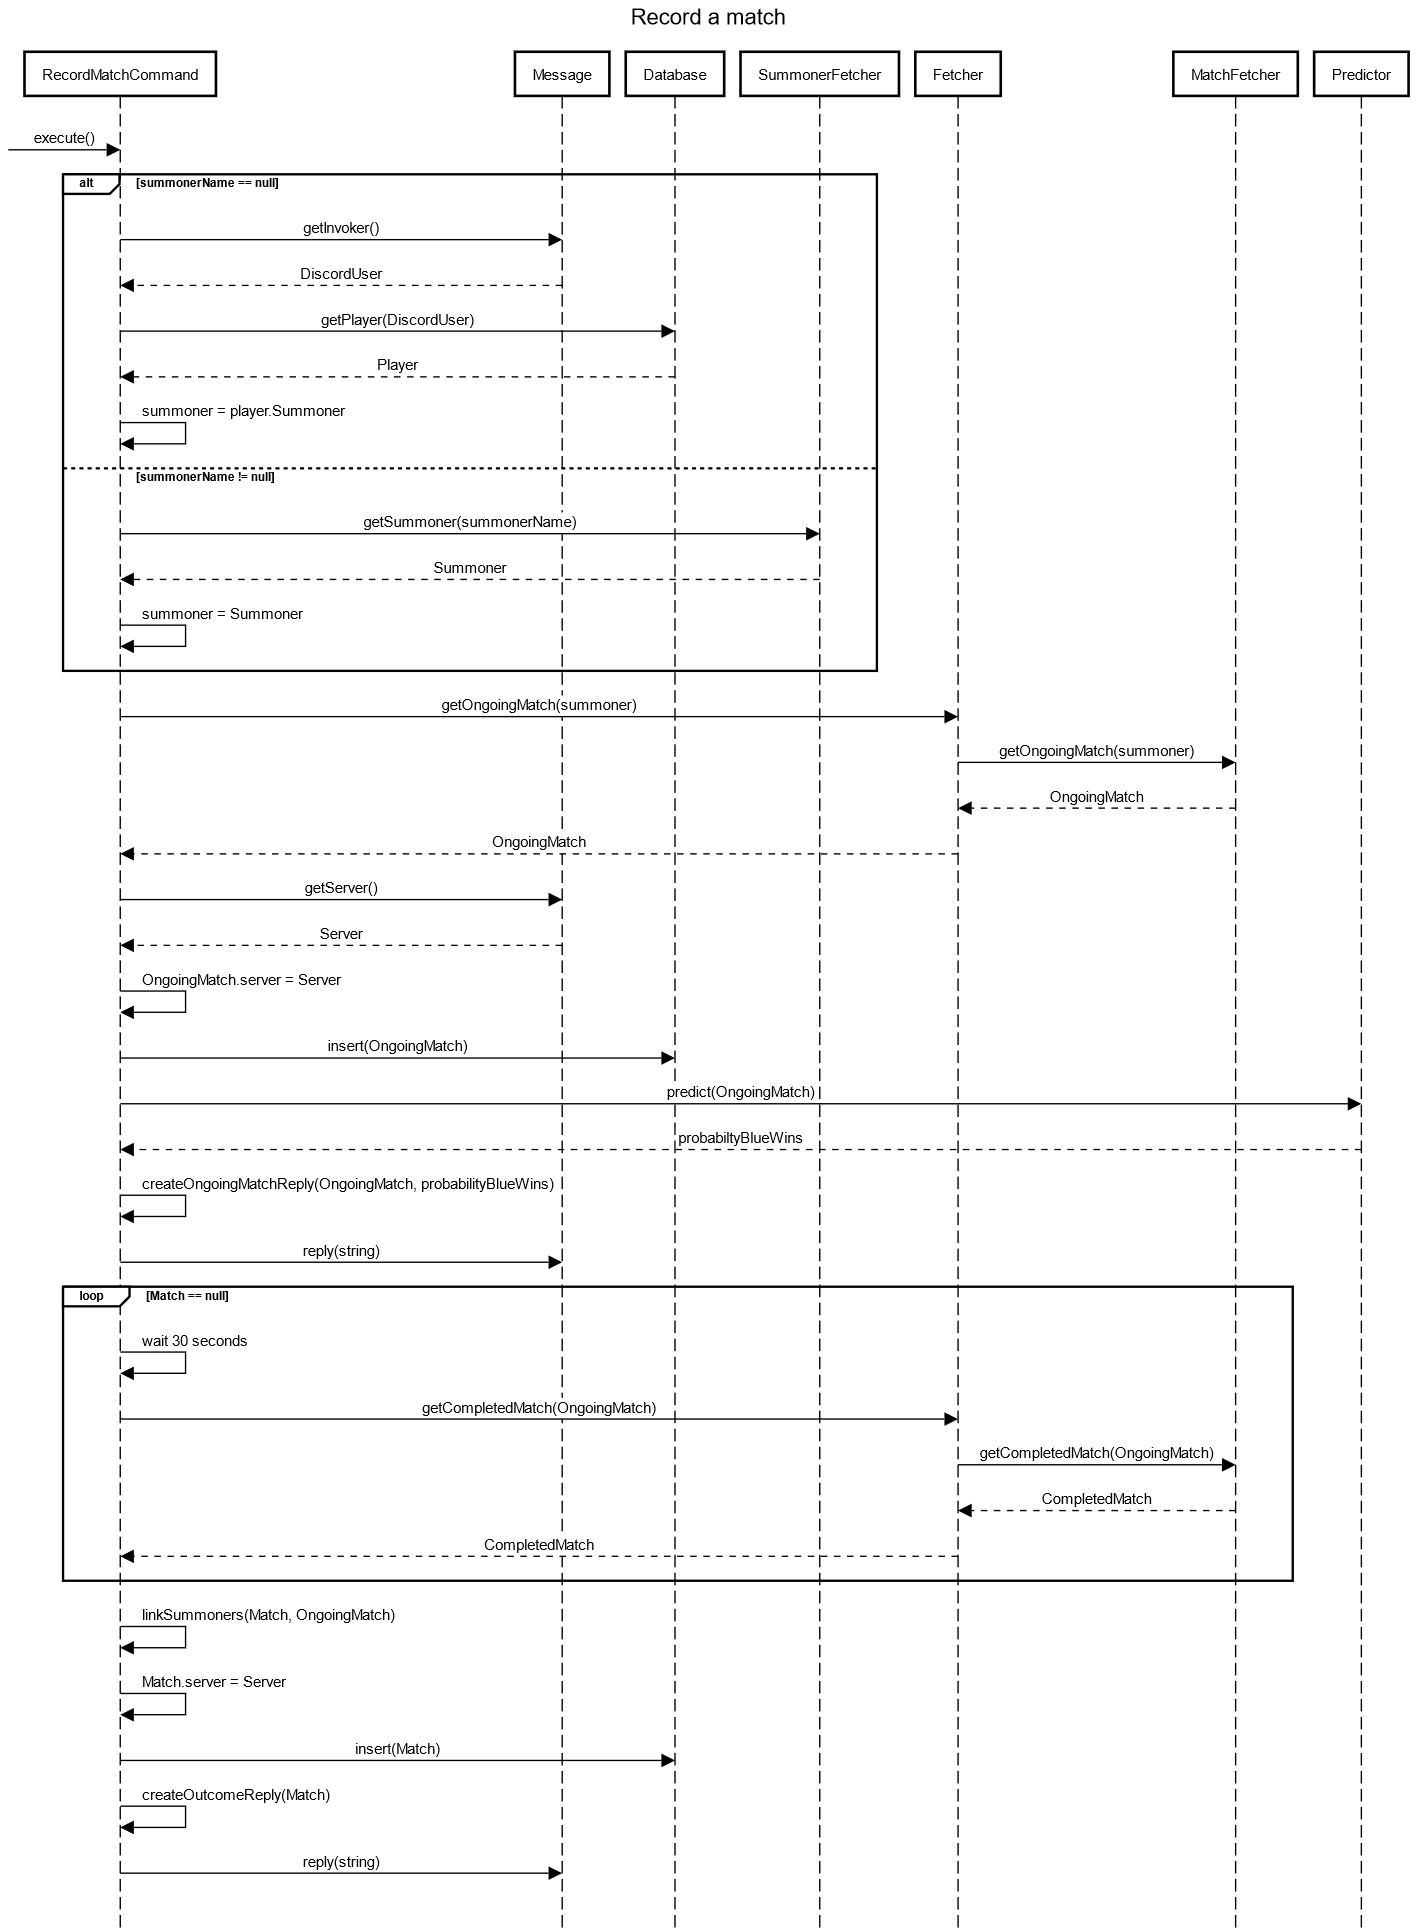
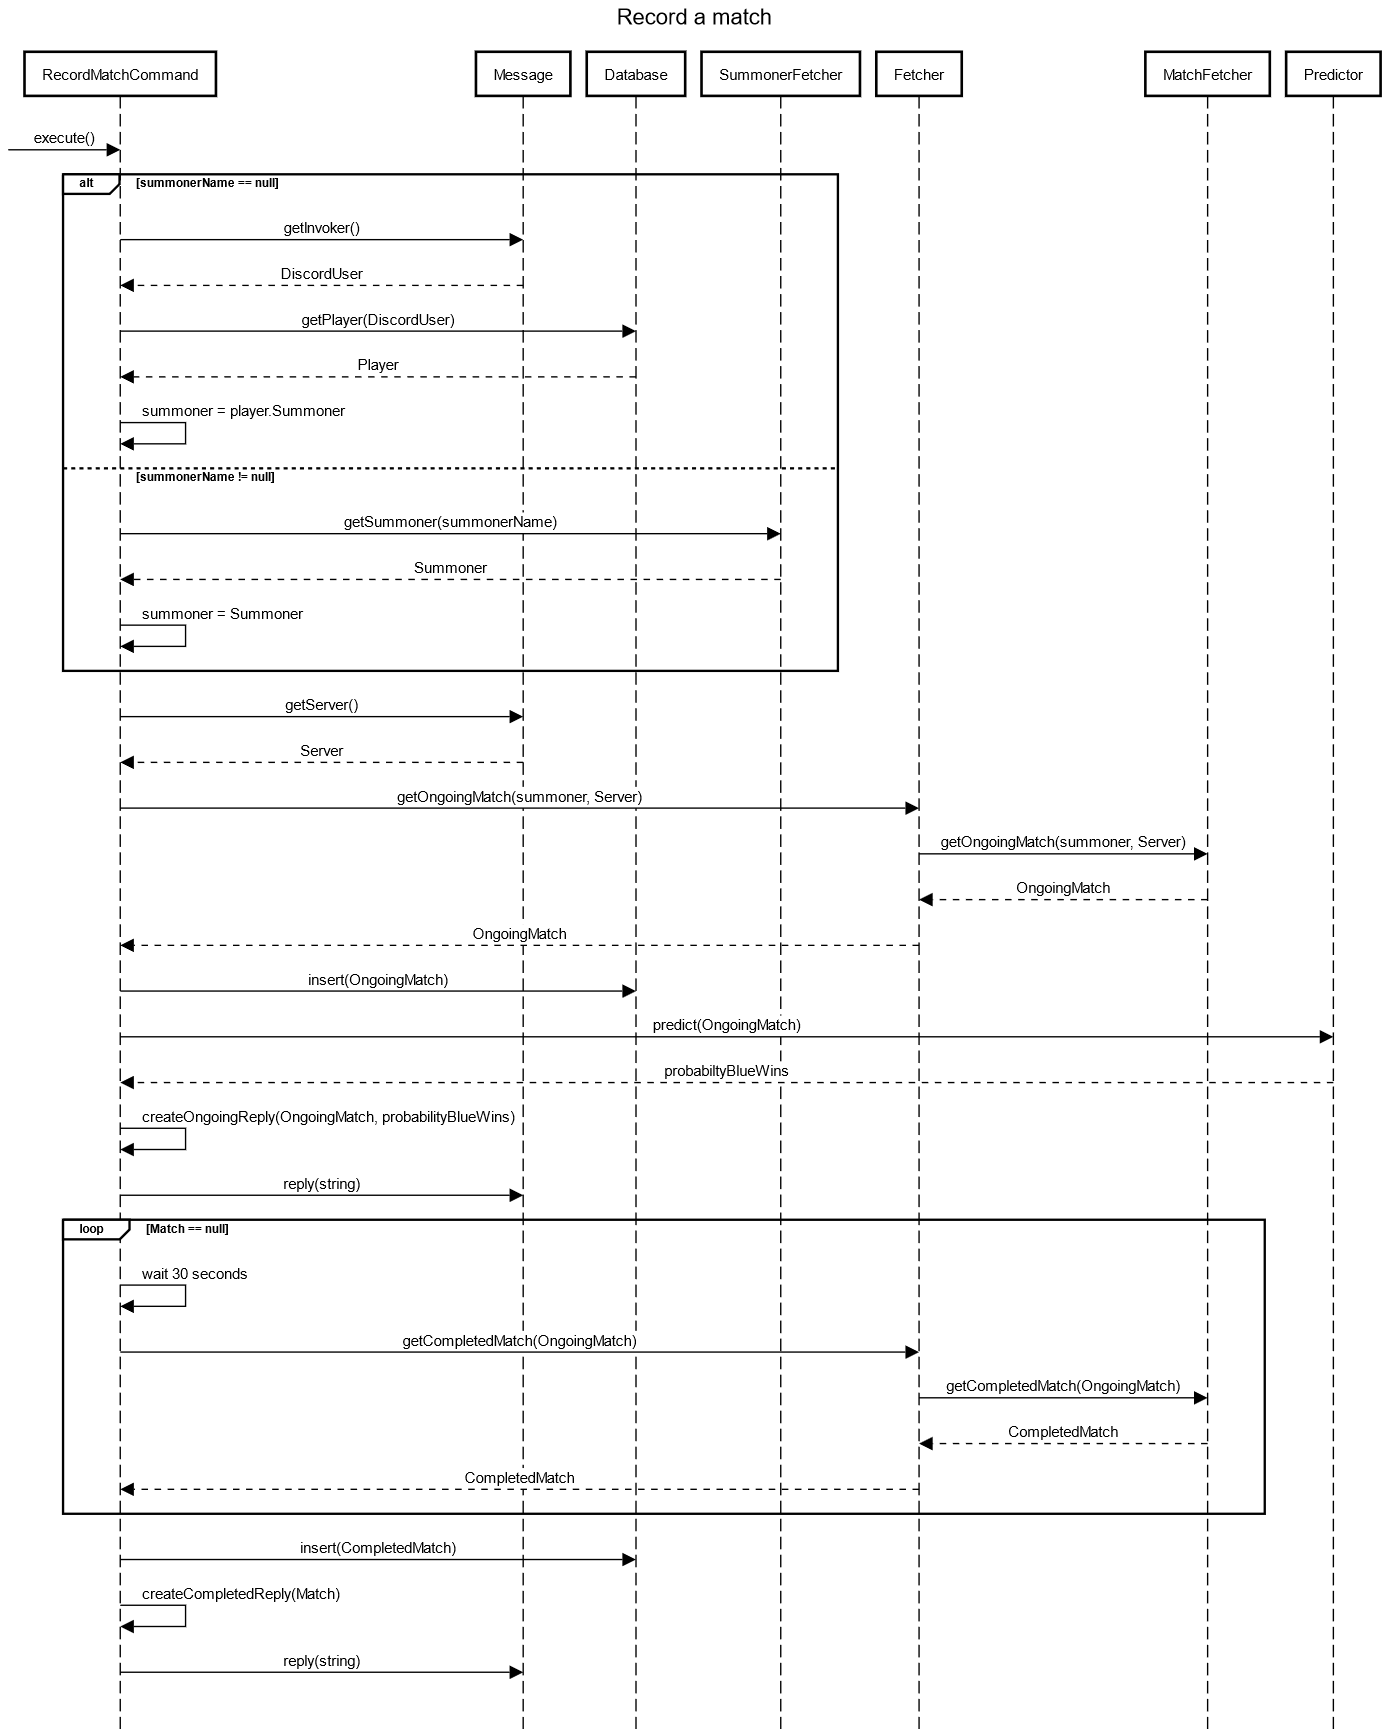
Adding all Command implementations

diff --git a/src/commands/RecordMatchCommand.ts b/src/commands/RecordMatchCommand.ts
@@ -1,0 +1,38 @@
+import { Command, Message } from "../core/abstractions";
+import { Context } from "../core/concretions";
+import { CompletedMatch, OngoingMatch, Server, Summoner } from "../core/model";
+
+export class RecordMatchCommand extends Command{
+    constructor(message: Message){
+        super(message);
+    }
+
+    public async execute(context: Context): Promise<void> {
+        const options: string[] = this.message.getCommandOptions();
+        const summoner: Summoner = await this.getSummoner(options, context);
+        const server: Server = this.message.getServer();
+
+        const ongoingMatch: OngoingMatch = await context.fetcher.getOngoingMatch(summoner, server);
+        await context.database.insert(ongoingMatch);
+        const probabilityBlueWins: number = await context.predictor.predict(ongoingMatch);
+        const ongoingMatchReply: string = this.createOngoingReply(ongoingMatch, probabilityBlueWins);
+        this.message.reply(ongoingMatchReply);
+
+        const completedMatch: CompletedMatch = await this.getCompletedMatch(ongoingMatch);
+        await context.database.insert(completedMatch);
+        const completedMatchReply: string = this.createCompletedReply(completedMatch);
+        this.message.reply(completedMatchReply);
+    }
+
+    private async getCompletedMatch(ongoingMatch: OngoingMatch): Promise<CompletedMatch>{
+        throw new Error("Method not implemented.");
+    }
+
+    private createOngoingReply(match: OngoingMatch, probabilityBlueWins: number): string{
+        throw new Error("Method not implemented.");
+    }
+
+    private createCompletedReply(match: CompletedMatch): string{
+        throw new Error("Method not implemented.");
+    }
+}

diff --git a/src/commands/BalanceTeamsCommand.ts b/src/commands/BalanceTeamsCommand.ts
@@ -1,0 +1,44 @@
+import { Command, Message } from "../core/abstractions";
+import { Context } from "../core/concretions";
+import { Channel, DiscordUser, Player } from "../core/model";
+
+export class BalanceTeamsCommand extends Command{
+    constructor(message: Message){
+        super(message);
+    }
+
+    public async execute(context: Context): Promise<void> {
+        const options: string[] = this.message.getCommandOptions();
+        const channel: Channel = this.getChannel(options);
+
+        const users: DiscordUser[] = this.message.getUsersInChannel(channel);
+        const players: Player[] = await context.database.getPlayers(users);
+        const balancedTeams: [Player[], Player[]] = await context.predictor.balance(players);
+        
+        const reply: string = this.createReply(balancedTeams);
+        this.message.reply(reply);
+    }
+
+    private getChannel(options: string[]): Channel{
+        const channelName: string = this.tryGetChannelName(options);
+        if(channelName)
+            return this.message.getChannel(channelName);
+        else
+            return this.message.getInvokingChannel();
+    }
+
+    private tryGetChannelName(options: string[]): string{
+        switch(options.length){
+            case 0:
+                return null;
+            case 1:
+                return options[0];
+            default:
+                throw new Error("Method not implemented.");
+        }
+    }
+
+    private createReply(teams: [Player[], Player[]]): string{
+        throw new Error("Method not implemented.");
+    }
+}

diff --git a/src/core/concretions/Fetcher.ts b/src/core/concretions/Fetcher.ts
@@ -1,22 +1,22 @@
 import { ChampionFetcher, MatchFetcher, SummonerFetcher } from "../abstractions";
-import { CompletedMatch, OngoingMatch, Summoner } from "../model";
+import { CompletedMatch, OngoingMatch, Server, Summoner } from "../model";
 
 export class Fetcher{
     constructor(
-        public championFetcher: ChampionFetcher,
-        public summonerFetcher: SummonerFetcher,
-        public matchFetcher: MatchFetcher
+        private championFetcher: ChampionFetcher,
+        private summonerFetcher: SummonerFetcher,
+        private matchFetcher: MatchFetcher
     ){}
 
-    public getSummoner(summonerName: string): Summoner{
+    public async getSummoner(summonerName: string): Promise<Summoner>{
         return this.summonerFetcher.getSummoner(summonerName);
     }
 
-    public getOngoingMatch(summoner: Summoner): OngoingMatch{
-        return this.matchFetcher.getOngoingMatch(summoner);
+    public async getOngoingMatch(summoner: Summoner, server: Server): Promise<OngoingMatch>{
+        return this.matchFetcher.getOngoingMatch(summoner, server);
     }
 
-    public getCompletedMatch(ongoingMatch: OngoingMatch): CompletedMatch{
+    public async getCompletedMatch(ongoingMatch: OngoingMatch): Promise<CompletedMatch>{
         return this.matchFetcher.getCompletedMatch(ongoingMatch);
     }
 }

diff --git a/src/core/abstractions/Command.ts b/src/core/abstractions/Command.ts
@@ -1,8 +1,34 @@
 import { Message } from '.';
 import { Context } from '../concretions';
+import { DiscordUser, Player, Summoner } from '../model';
 
 export abstract class Command{
-    constructor(public message: Message){ }
+    constructor(
+        public message: Message
+    ){ }
 
-    public abstract execute(context: Context): void;
+    public abstract execute(context: Context): Promise<void>;
+
+    protected async getSummoner(options: string[], context: Context): Promise<Summoner>{
+        const summonerName: string = this.tryGetSummonerName(options);
+        if(summonerName){
+            return await context.fetcher.getSummoner(summonerName);
+        }
+        else{
+            const discordUser: DiscordUser = this.message.getInvoker();
+            const player: Player = await context.database.getPlayer(discordUser);
+            return player.summoner;
+        }
+    }
+
+    private tryGetSummonerName(options: string[]): string{
+        switch(options.length){
+            case 0:
+                return null;
+            case 1:
+                return options[0];
+            default:
+                throw new Error("Method not implemented.");
+        }
+    }
 }

diff --git a/src/commands/LinkPlayerCommand.ts b/src/commands/LinkPlayerCommand.ts
@@ -1,0 +1,32 @@
+import { Command, Message } from "../core/abstractions";
+import { Context } from "../core/concretions";
+import { DiscordUser, Player, Summoner } from "../core/model";
+
+export class LinkPlayerCommand extends Command{
+    constructor(message: Message){
+        super(message);
+    }
+
+    public async execute(context: Context): Promise<void> {
+        const options = this.message.getCommandOptions();
+        this.validateOptions(options);
+        const discordName = options[0];
+        const summonerName = options[1];
+        
+        const discordUser: DiscordUser = this.message.getUser(discordName);
+        const summoner: Summoner = await context.fetcher.getSummoner(summonerName);
+        const player: Player = { summoner, discordUser };
+        await context.database.upsert(player);
+        
+        const reply: string = this.createReply(player);
+        this.message.reply(reply);
+    }
+
+    private validateOptions(options: string[]): void{
+        throw new Error("Method not implemented.");
+    }
+
+    private createReply(player: Player): string{
+        throw new Error("Method not implemented.");
+    }
+}

diff --git a/src/commands/GetPlayerStatsCommand.ts b/src/commands/GetPlayerStatsCommand.ts
@@ -1,0 +1,22 @@
+import { Command, Message } from "../core/abstractions";
+import { Context } from "../core/concretions";
+import { DiscordUser, Player, Summoner, SummonerOverallStats } from "../core/model";
+
+export class GetPlayerStatsCommand extends Command{
+    constructor(message: Message){
+        super(message);
+    }
+
+    public async execute(context: Context): Promise<void> {
+        const options: string[] = this.message.getCommandOptions();
+        const summoner: Summoner = await this.getSummoner(options, context);
+        const stats: SummonerOverallStats = await context.database.getSummonerOverallStats(summoner);
+
+        const reply: string = this.createReply(stats);
+        this.message.reply(reply);
+    }
+
+    private createReply(stats: SummonerOverallStats): string{
+        throw new Error("Method not implemented.");
+    }
+}

diff --git a/src/core/abstractions/Database.ts b/src/core/abstractions/Database.ts
@@ -1,10 +1,10 @@
 import { CompletedMatch, DiscordUser, OngoingMatch, Player, Summoner, SummonerOverallStats } from "../model";
 
 export interface Database{
-    getPlayer(user: DiscordUser): Player;
-    getPlayers(users: DiscordUser[]): Player[];
-    getSummonerOverallStats(summoner: Summoner): SummonerOverallStats;
-    upsert(player: Player): void;
-    insert(ongoingMatch: OngoingMatch): void;
-    insert(completedMatch: CompletedMatch): void;
+    getPlayer(user: DiscordUser): Promise<Player>;
+    getPlayers(users: DiscordUser[]): Promise<Player[]>;
+    getSummonerOverallStats(summoner: Summoner): Promise<SummonerOverallStats>;
+    upsert(player: Player): Promise<void>;
+    insert(ongoingMatch: OngoingMatch): Promise<void>;
+    insert(completedMatch: CompletedMatch): Promise<void>;
 }

diff --git a/src/core/abstractions/MatchFetcher.ts b/src/core/abstractions/MatchFetcher.ts
@@ -1,6 +1,6 @@
-import { CompletedMatch, OngoingMatch, Summoner } from "../model";
+import { CompletedMatch, OngoingMatch, Server, Summoner } from "../model";
 
 export interface MatchFetcher{
-    getOngoingMatch(summoner: Summoner): OngoingMatch;
-    getCompletedMatch(ongoingMatch: OngoingMatch): CompletedMatch;
+    getOngoingMatch(summoner: Summoner, server: Server): Promise<OngoingMatch>;
+    getCompletedMatch(ongoingMatch: OngoingMatch): Promise<CompletedMatch>;
 }

diff --git a/src/core/abstractions/Predictor.ts b/src/core/abstractions/Predictor.ts
@@ -1,6 +1,6 @@
 import { OngoingMatch, Player } from "../model";
 
 export interface Predictor{
-    balance(player: Player[]): [Player[], Player[]];
-    predict(ongoingMatch: OngoingMatch): number;
+    balance(player: Player[]): Promise<[Player[], Player[]]>;
+    predict(ongoingMatch: OngoingMatch): Promise<number>;
 }

diff --git a/src/core/abstractions/Message.ts b/src/core/abstractions/Message.ts
@@ -1,6 +1,7 @@
 import { Channel, DiscordUser, Server } from '../model'
 
 export interface Message{
+    getCommandOptions(): string[];
     getInvoker(): DiscordUser;
     getInvokingChannel(): Channel;
     getUsersInChannel(channel: Channel): DiscordUser[];

diff --git a/src/core/concretions/CommandFactory.ts b/src/core/concretions/CommandFactory.ts
@@ -2,6 +2,6 @@ import { Command, Message } from "../abstractions";
 
 export class CommandFactory{
     public createCommand(message: Message): Command{
-        throw "not implemented";
+        throw new Error("Method not implemented.");
     }
 }

diff --git a/src/core/abstractions/SummonerFetcher.ts b/src/core/abstractions/SummonerFetcher.ts
@@ -1,5 +1,5 @@
 import { Summoner } from "../model";
 
 export interface SummonerFetcher{
-    getSummoner(name: string): Summoner;
+    getSummoner(name: string): Promise<Summoner>;
 }
